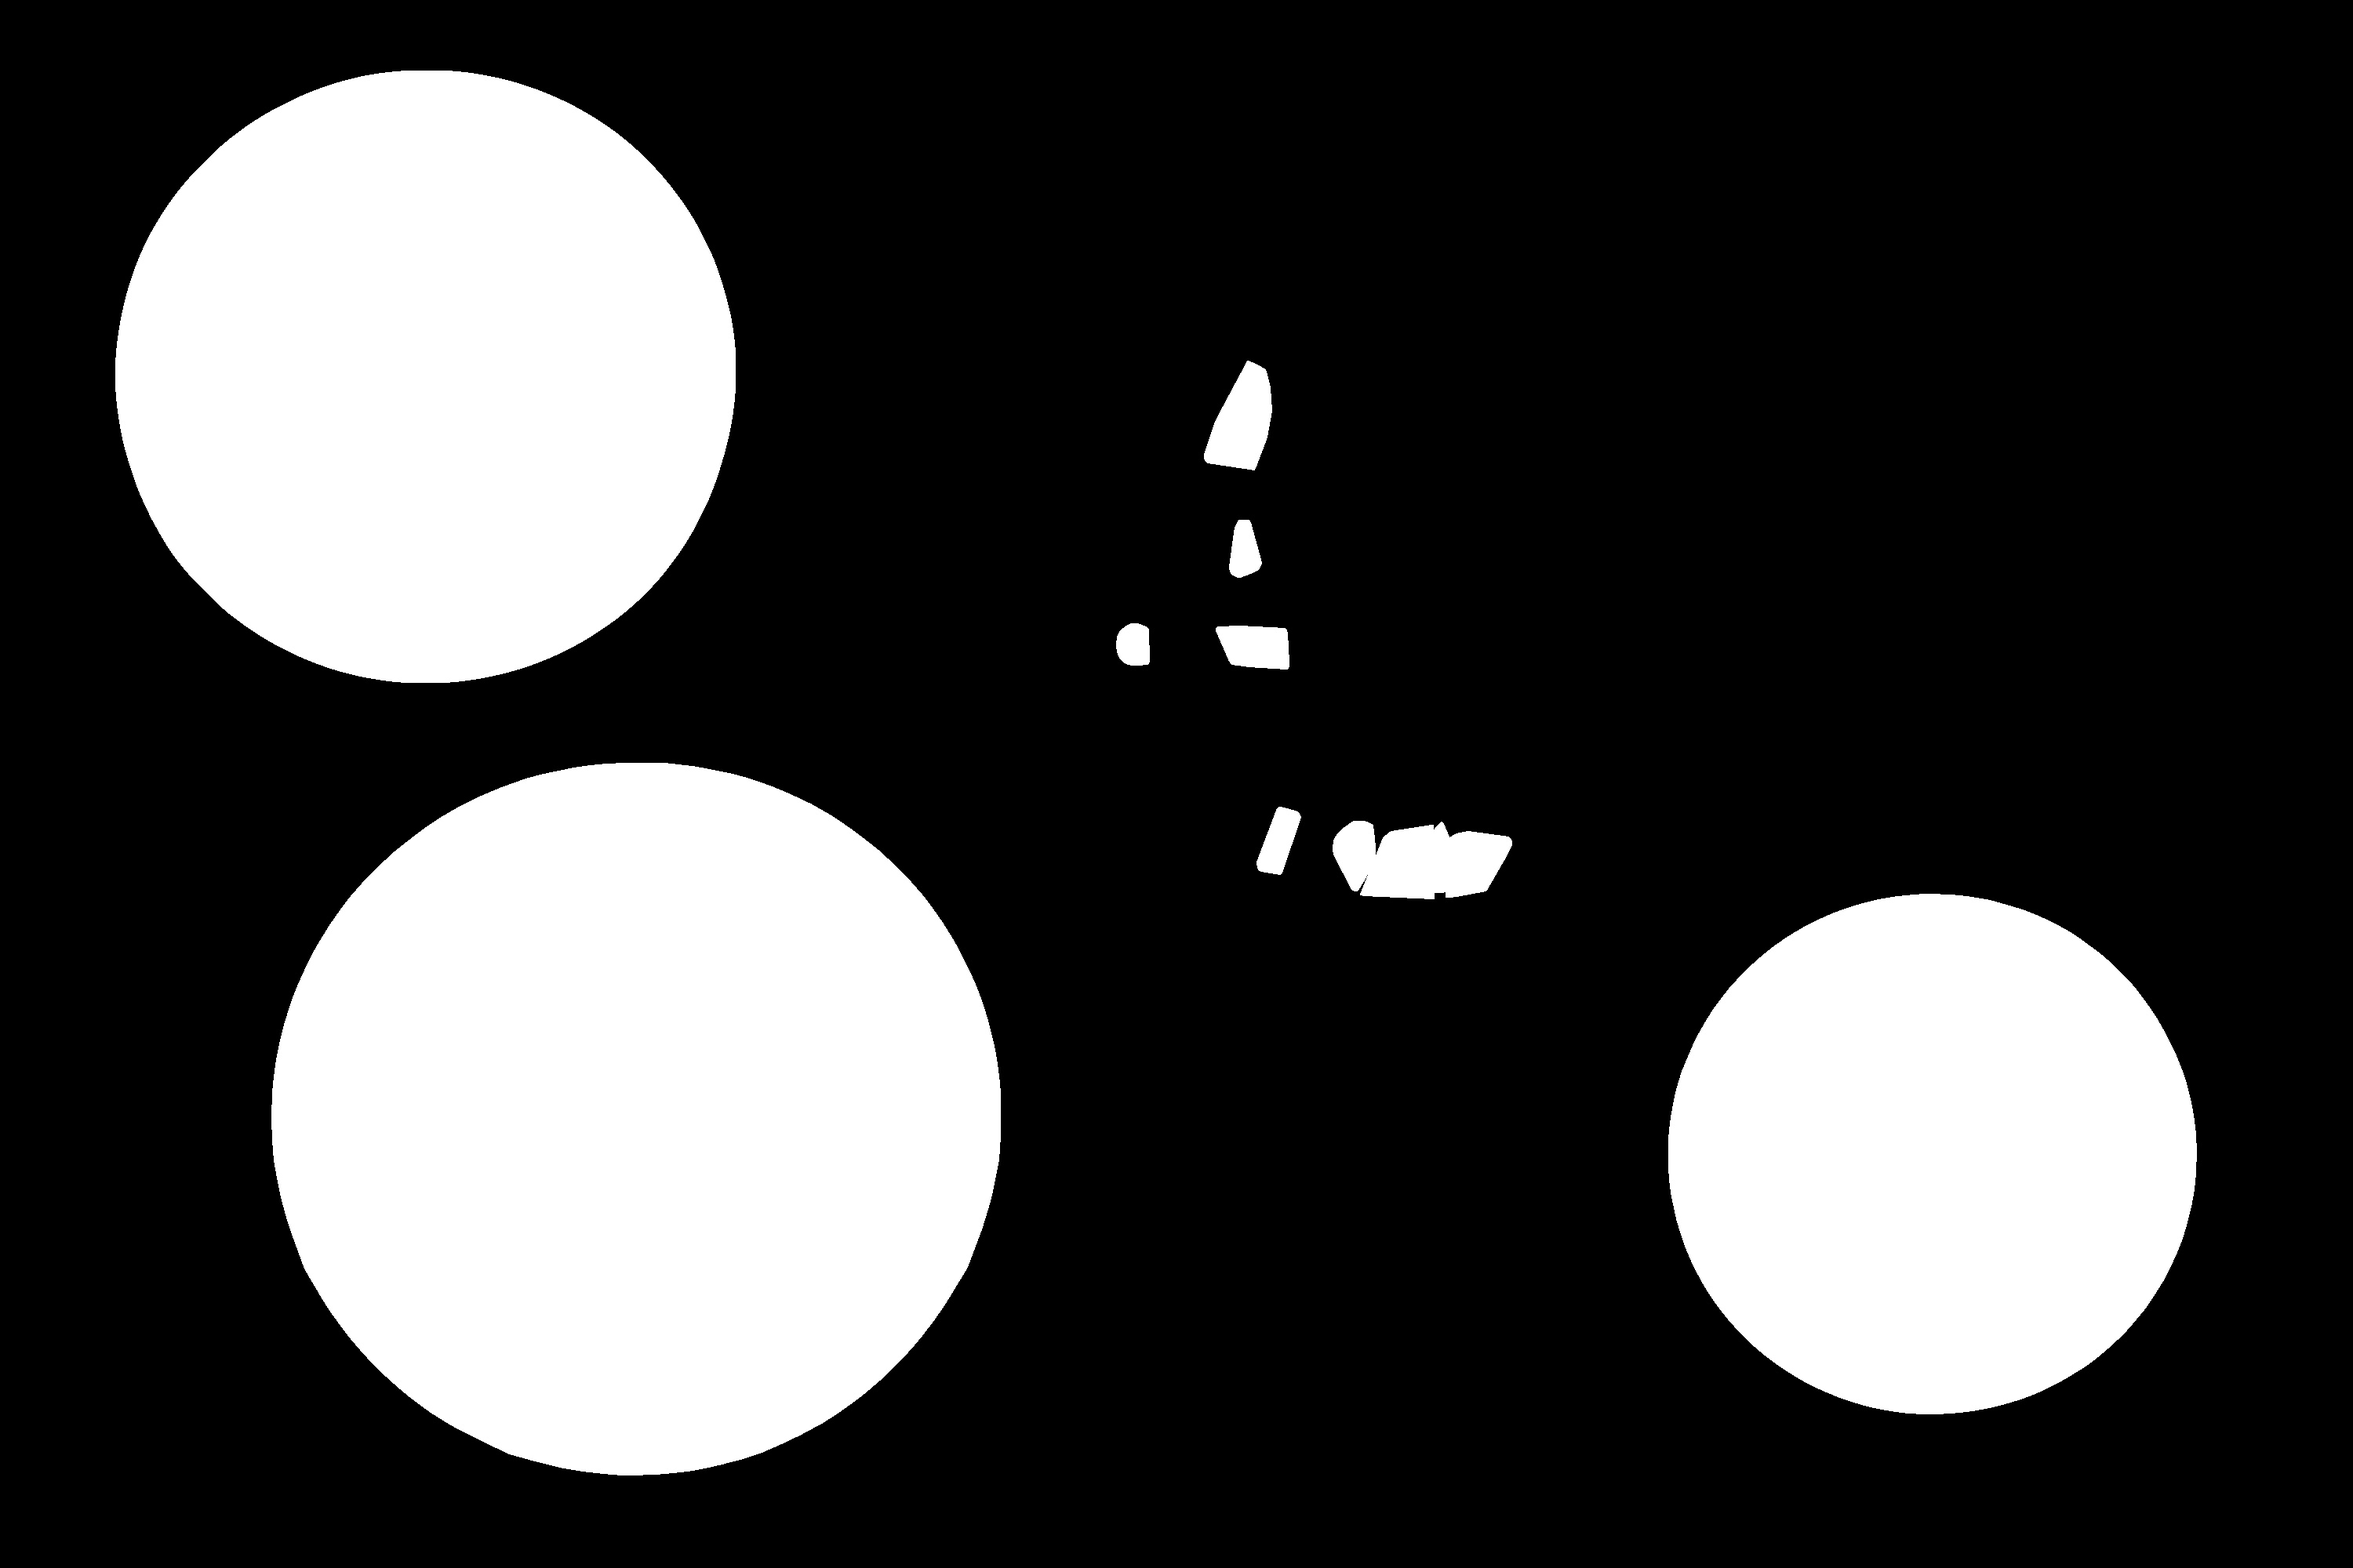
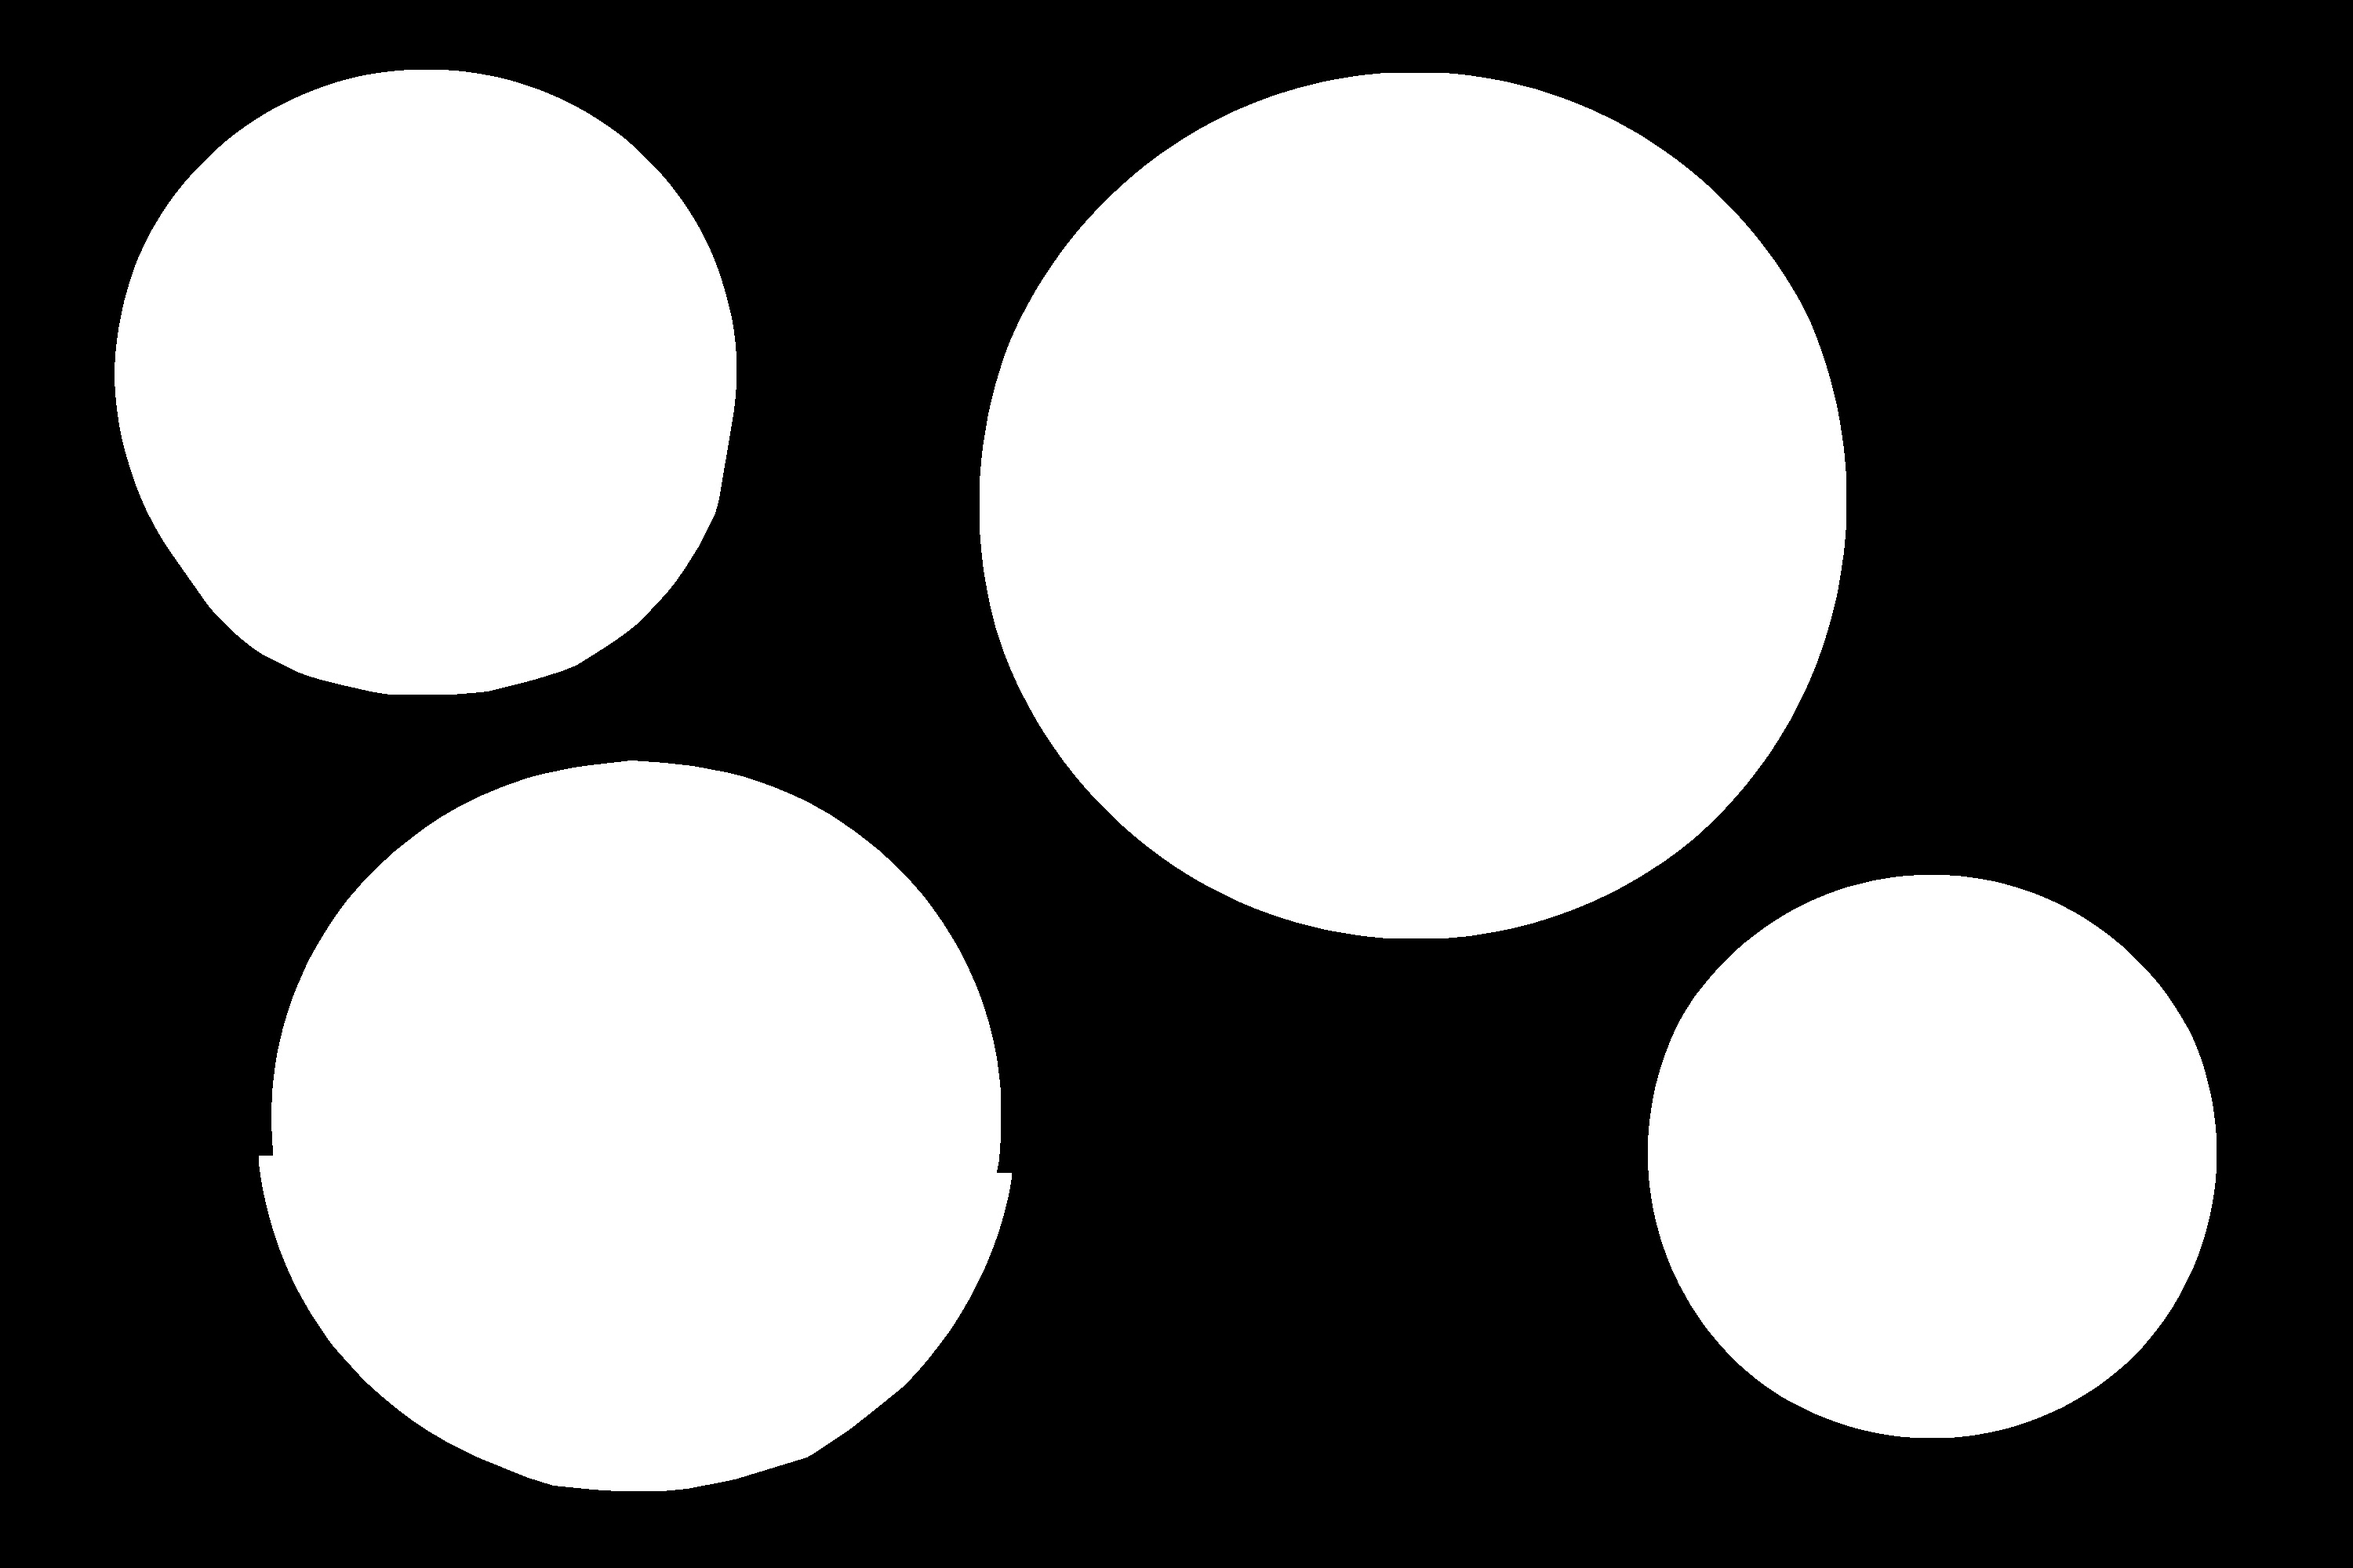
changed min area and max area parameters

diff --git a/main.py b/main.py
@@ -15,17 +15,26 @@ for filename in os.listdir('../PrototypeCV/Inputs'):
 
         # get image size
         imgSize = gray.shape
+        imgArea = imgSize[0]*imgSize[1]
 
         # write a function to get info about images (ex. max and min intensity...)
+        print("name: " + name)
+        print("size: " + str(imgSize))
+        print("area: " + str(imgSize[0]*imgSize[1]))
+        print("Max pixel value: " + str(np.amax(gray)))
+        print("Min pixel value: " + str(np.amin(gray)))
+        print("Average pixel value: " + str(np.mean(gray)))
+        print("Standard deviation: " + str(np.std(gray)/255*100) + '%\n')
 
         # MSER
         mser = cv.MSER_create()
-        mser.setMinArea(1000) #100,000
-        mser.setMaxArea(50000) #1,000,000
-        mser.setDelta(25)
+        mser.setMinArea(int(0.001*imgArea)) # 0.1% of image area
+        mser.setMaxArea(int(0.30*imgArea)) # 30% of image area
+        mser.setDelta(15) #25 is best for log picture --> need to find a function to get delta
         regions, boxes = mser.detectRegions(gray)
 
         numRegions = len(regions)
+        print("num regions: " + str(numRegions))
 
         hulls = [cv.convexHull(p.reshape(-1, 1, 2)) for p in regions]
         cv.polylines(gray, hulls, 1, (0, 255, 0), 3)
@@ -53,14 +62,3 @@ for filename in os.listdir('../PrototypeCV/Inputs'):
             print("Mask: ")
             plt.imshow(mask)
             plt.show()
-
-        #vis = pic.copy()
-
-        #for p in regions:
-        #    xmax, ymax = np.amax(p, axis=0)
-        #    xmin, ymin = np.amin(p, axis=0)
-        #    cv.rectangle(vis, (xmin,ymax), (xmax,ymin), (0, 255, 0), 1)
-
-        #print("Rectangles: ")
-        #plt.imshow(vis)
-        #plt.show()
